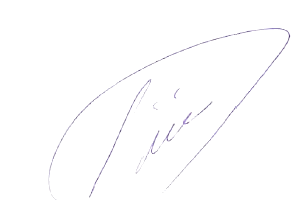
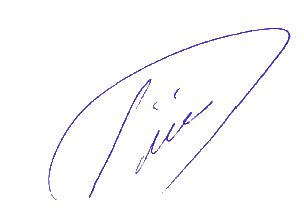
semnaturi

diff --git a/src/App.jsx b/src/App.jsx
@@ -1309,14 +1309,14 @@ export default function App() {
         <div style="display:flex;justify-content:flex-end;margin-top:1mm;font-size:9pt;">
           <div style="text-align:center;position:relative;width:62mm;height:34mm;">
             <div style="position:absolute;top:0;left:0;right:0;">Semnătura Operator,<br/><b>${t.operator || ""}</b></div>
-            <img src="${window.location.origin}/stampila.png" onerror="this.style.display='none'" style="position:absolute;top:5mm;left:4mm;transform:rotate(-5deg);width:32mm;opacity:0.93;" />
+            <img src="${window.location.origin}/stampila.png" onerror="this.style.display='none'" style="position:absolute;top:5mm;left:4mm;transform:rotate(-5deg);width:28mm;" />
             <img src="${window.location.origin}/semnatura-${(t.operator || "").toLowerCase().normalize("NFD").replace(/[\u0300-\u036f]/g, "")}.png" onerror="this.style.display='none'" style="position:absolute;bottom:3mm;right:2mm;height:14mm;max-width:30mm;object-fit:contain;" />
             <div style="position:absolute;bottom:0;left:0;right:0;">__________________</div>
           </div>
         </div>
       </div>`;
     const w = window.open("", "_blank");
-    w.document.write(`<html><head><title>Tichet ${t.serie} ${t.nr_tichet}</title><style>html,body{margin:0;padding:0;} body{box-sizing:border-box;padding:3mm;} @page{size:A5 landscape;margin:4mm;} @media print{ html,body{height:138mm;overflow:hidden;} }</style></head><body>${html}</body></html>`);
+    w.document.write(`<html><head><title>Tichet ${t.serie} ${t.nr_tichet}</title><style>html,body{margin:0;padding:0;} body{box-sizing:border-box;padding:3mm;} *{-webkit-print-color-adjust:exact !important;print-color-adjust:exact !important;} img{image-rendering:auto;} @page{size:A5 landscape;margin:4mm;} @media print{ html,body{height:138mm;overflow:hidden;} }</style></head><body>${html}</body></html>`);
     w.document.close(); w.focus(); w.print();
   };
 
